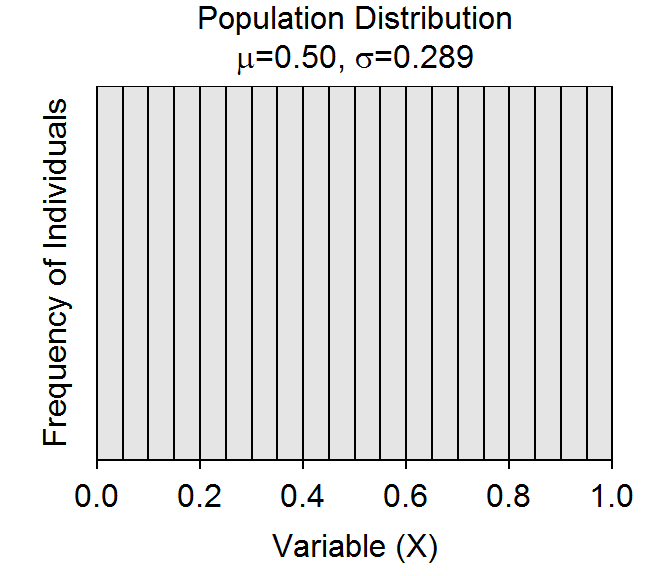
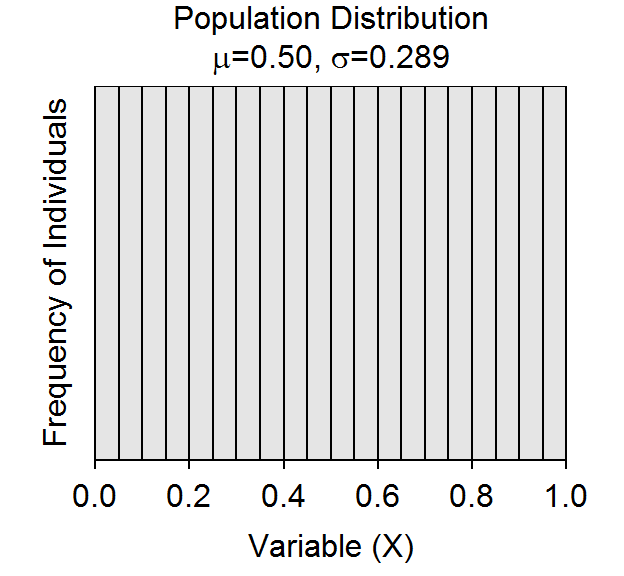
again

diff --git a/modules/SamplingDist_CE2.html b/modules/SamplingDist_CE2.html
@@ -16,13 +16,13 @@ css: "/css/modules.css"
 </div>
 <div id="situation-1" class="section level2">
 <h2>Situation 1</h2>
-<p>Suppose that the population in this situation has the characteristics shown in the figure below.</p>
-<p><img src="SamplingDist_CE2_files/figure-html/Sit1-1.png" width="336" /></p>
+<p>Suppose the population has the characteristics shown in the figure below.</p>
+<p><img src="SamplingDist_CE2_files/figure-html/Sit1-1.png" width="312" /></p>
 <ol>
 <li>What is the shape, center, and dispersion of this population?</li>
 <li>What would you expect, based on the CLT, the sampling distribution of the sample means to look like for n=10, 25, and 50. Record your expectations in the appropriate cells of the table below.</li>
 </ol>
-<table class="table table-bordered table-condensed">
+<table class="table table-bordered table-condensed" style="width:50%">
 <thead>
 <tr>
 <th>
@@ -95,8 +95,8 @@ Dispersion
 </div>
 <div id="situation-2" class="section level2">
 <h2>Situation 2</h2>
-<p>Suppose that the population in this situation has the characteristics shown in the figure below.</p>
-<p><img src="SamplingDist_CE2_files/figure-html/Sit2-1.png" width="336" /></p>
+<p>Suppose the population has the characteristics shown in the figure below.</p>
+<p><img src="SamplingDist_CE2_files/figure-html/Sit2-1.png" width="312" /></p>
 <ol>
 <li>What is the shape, center, and dispersion of this population?</li>
 <li>What would you expect, based on the CLT, the sampling distribution of the sample means to look like for n=10, 25, and 50. Record your expectations in the appropriate cells of a table like that above.</li>
@@ -105,8 +105,8 @@ Dispersion
 </div>
 <div id="situation-3" class="section level2">
 <h2>Situation 3</h2>
-<p>Suppose that the population in this situation has the characteristics shown in the figure below.</p>
-<p><img src="SamplingDist_CE2_files/figure-html/Sit3-1.png" width="336" /></p>
+<p>Suppose the population has the characteristics shown in the figure below.</p>
+<p><img src="SamplingDist_CE2_files/figure-html/Sit3-1.png" width="312" /></p>
 <ol>
 <li>What is the shape, center, and dispersion of this population?</li>
 <li>What would you expect, based on the CLT, the sampling distribution of the sample means to look like for n=10, 25, and 50. Record your expectations in the appropriate cells of a table like that above.</li>
